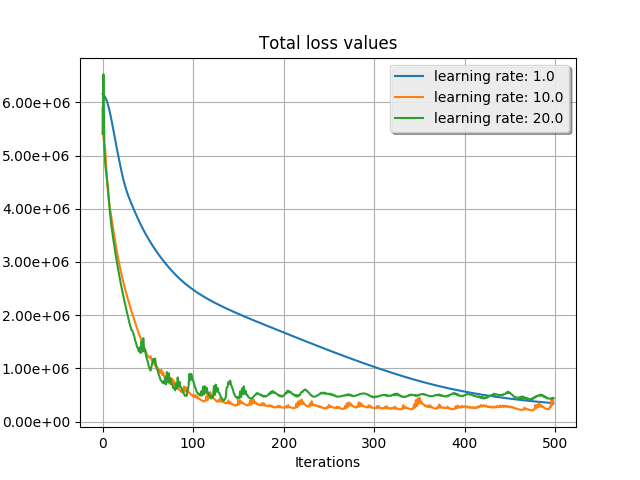
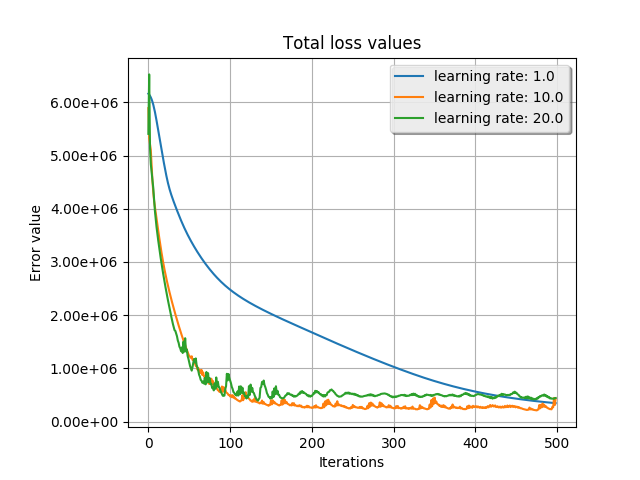
Adjusted ylabel plot.

diff --git a/artistic_video/additional/loss_chart_for_images/loss_chart_for_images.py b/artistic_video/additional/loss_chart_for_images/loss_chart_for_images.py
@@ -26,6 +26,7 @@ def draw_chart():
     sub_plot.legend(loc='upper right', shadow=True)
     plt.grid(True)
     plt.ylabel("Error value")
+    plt.gcf().subplots_adjust(left=0.2)
     plt.xlabel("Iterations")
     plt.show()
     fig.savefig('total_loss_values')
